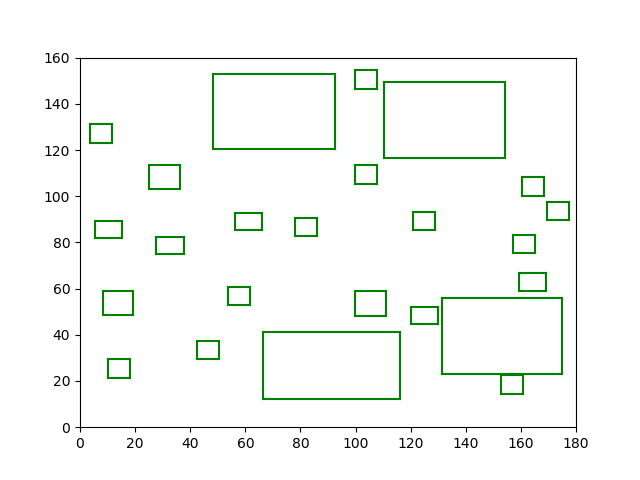
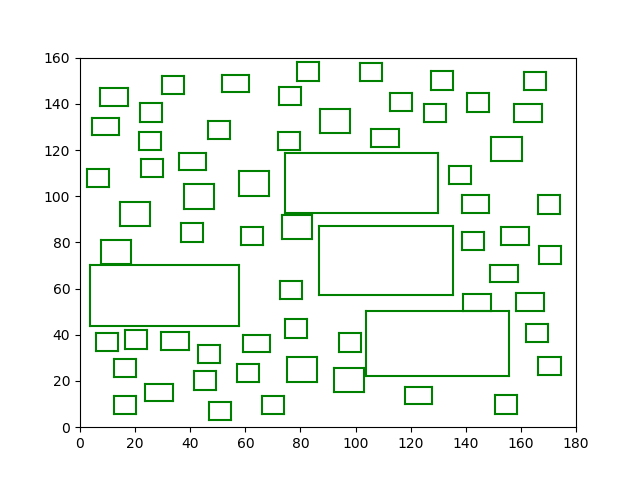
Scatterplot met kleurtjes.

diff --git a/Classes/map.py b/Classes/map.py
@@ -86,16 +86,27 @@ class Map(object):
 					return False
 
 
-		# check if house is not placed on existing home
+		# check for overlap other house
 		for house in self.houses:
 
-			# check for every corner if it's not inside a other house
+			# check for every corner if it's not in a other house
 			for c in tmp_house.corners:
 
 				if (tmp_house.corners[c]['x'] >= house.corners['lb']['x'] and
 					tmp_house.corners[c]['x'] <= house.corners['rb']['x'] and
 				    tmp_house.corners[c]['y'] <= house.corners['lb']['y'] and
 				    tmp_house.corners[c]['y'] >= house.corners['lo']['y']):
+
+					# stop function if there is overlap
+					return False
+
+			# check for every corner of other house if it's not in this house
+			for c in house.corners:
+
+				if (house.corners[c]['x'] >= tmp_house.corners['lb']['x'] and
+					house.corners[c]['x'] <= tmp_house.corners['rb']['x'] and
+				    house.corners[c]['y'] <= tmp_house.corners['lb']['y'] and
+				    house.corners[c]['y'] >= tmp_house.corners['lo']['y']):
 
 					# stop function if there is overlap
 					return False
@@ -156,30 +167,41 @@ class Map(object):
 
 		tmp_list.append(new_water)
 
-        # check if corners locations exceed the map and check if ratio is correct
-		if ((x / y) > 0.25) & ((x / y) < 4):
+        #check if ratio is correct
+		if ((x / y) < 0.25) & ((x / y) > 4):
+			return False
 
-			for water in self.water:
+		for water in self.water:
 
-				# check for every corner if it's not inside a other house
-				for c in new_water.corners:
+			# check if corner is not inside other water body
+			for c in new_water.corners:
 
-					if (new_water.corners[c]['x'] >= water.corners['lb']['x'] and
-						new_water.corners[c]['x'] <= water.corners['rb']['x'] and
-					    new_water.corners[c]['y'] <= water.corners['lb']['y'] and
-					    new_water.corners[c]['y'] >= water.corners['lo']['y']):
+				if (new_water.corners[c]['x'] >= water.corners['lb']['x'] and
+					new_water.corners[c]['x'] <= water.corners['rb']['x'] and
+				    new_water.corners[c]['y'] <= water.corners['lb']['y'] and
+				    new_water.corners[c]['y'] >= water.corners['lo']['y']):
 
-						# stop function if there is overlap
-						return False
+					# stop function if there is overlap
+					return False
 
-            # check if water is on map
-			for water in tmp_list:
-				if water.corners['lo']['x'] > 0 and water.corners['lo']['y'] > 0 \
-				and water.corners['lb']['x'] > 0 and water.corners['lb']['y'] < self.height \
-				and water.corners['ro']['x'] < self.width and water.corners['ro']['y'] > 0 \
-				and water.corners['rb']['x'] < self.width and water.corners['rb']['y'] < self.height:
-					self.water.append(water)
-					return True
+			for c in water.corners:
+
+				if (water.corners[c]['x'] >= new_water.corners['lb']['x'] and
+					water.corners[c]['x'] <= new_water.corners['rb']['x'] and
+				    water.corners[c]['y'] <= new_water.corners['lb']['y'] and
+				    water.corners[c]['y'] >= new_water.corners['lo']['y']):
+
+					# stop function if there is overlap
+					return False
+
+        # check if water is on map
+		for water in tmp_list:
+			if water.corners['lo']['x'] > 0 and water.corners['lo']['y'] > 0 \
+			and water.corners['lb']['x'] > 0 and water.corners['lb']['y'] < self.height \
+			and water.corners['ro']['x'] < self.width and water.corners['ro']['y'] > 0 \
+			and water.corners['rb']['x'] < self.width and water.corners['rb']['y'] < self.height:
+				self.water.append(water)
+				return True
 
 
 	def calc_freespace_on_map(self):
@@ -187,7 +209,7 @@ class Map(object):
 
 		# Input arguments:
 		# new_house --  house that is being moved
-		
+
 
 		# initiate possible freespace variable
 		poss_freespace = 0

diff --git a/Algorithms/particle_swarm.py b/Algorithms/particle_swarm.py
@@ -8,75 +8,38 @@ import matplotlib.patches as patches
 import sys
 
 
+
 def scatterplot(ah_map, name, directory):
 
-	data = []
+	import matplotlib.patches as patches
 
-	for i in range(len(ah_map.houses)):
+	out_plot = plot.figure()
+	ax = out_plot.add_subplot(111, aspect='equal')
 
+	p = []
 
-		x = ah_map.houses[i].location['x']
-		y = ah_map.houses[i].location['y']
+	for house in ah_map.houses:
 
-		colors = (0, 0, 0)
-		area = np.pi * 1
-
-		data.append([ah_map.houses[i].corners['lb']['x'],
-					 ah_map.houses[i].corners['lb']['y']])
-		data.append([ah_map.houses[i].corners['lo']['x'],
-					 ah_map.houses[i].corners['lo']['y']])
-		data.append([ah_map.houses[i].corners['lo']['x'],
-					 ah_map.houses[i].corners['lo']['y']])
-		data.append([ah_map.houses[i].corners['ro']['x'],
-					 ah_map.houses[i].corners['ro']['y']])
-		data.append([ah_map.houses[i].corners['ro']['x'],
-					 ah_map.houses[i].corners['ro']['y']])
-		data.append([ah_map.houses[i].corners['rb']['x'],
-					 ah_map.houses[i].corners['rb']['y']])
-		data.append([ah_map.houses[i].corners['rb']['x'],
-					 ah_map.houses[i].corners['rb']['y']])
-		data.append([ah_map.houses[i].corners['lb']['x'],
-					 ah_map.houses[i].corners['lb']['y']])
+		p.append(patches.Rectangle((house.location['x'], house.location['y']),
+									house.width, house.height,
+									facecolor=house.colour))
 
 	for water in ah_map.water:
-		print(water.width, water.height, water.self_id)
-		data.append([water.corners['lb']['x'],
-					 water.corners['lb']['y']])
-		data.append([water.corners['lo']['x'],
-					 water.corners['lo']['y']])
-		data.append([water.corners['lo']['x'],
-					 water.corners['lo']['y']])
-		data.append([water.corners['ro']['x'],
-					 water.corners['ro']['y']])
-		data.append([water.corners['ro']['x'],
-					 water.corners['ro']['y']])
-		data.append([water.corners['rb']['x'],
-					 water.corners['rb']['y']])
-		data.append([water.corners['rb']['x'],
-					 water.corners['rb']['y']])
-		data.append([water.corners['lb']['x'],
-					 water.corners['lb']['y']])
+
+		p.append(patches.Rectangle((water.location['x'], water.location['y']),
+									water.width, water.height,
+									facecolor='blue'))
+
+
+	for patch in p:
+	    ax.add_patch(patch)
 
 	axes = plot.gca()
+	ax.set_facecolor('green')
 	axes.set_xlim([0, ah_map.width])
 	axes.set_ylim([0, ah_map.height])
 
-	# for every value in data
-	for i in range(0, len(data) - 1, 2):
-		# define lists
-		plot_array_x = []
-		plot_array_y = []
-
-		# append values in pairs to lists
-		plot_array_x.append(data[i][0])
-		plot_array_x.append(data[i + 1][0])
-		plot_array_y.append(data[i][1])
-		plot_array_y.append(data[i + 1][1])
-
-		# plot each of these pairs seperately
-		plot.plot(plot_array_x, plot_array_y, 'g')
-
-	# plot.savefig(name)
+	# out_plot.savefig(name)
 
 	split = sys.path[1][2]
 	list_dir = sys.path[0].split(split)
@@ -85,11 +48,11 @@ def scatterplot(ah_map, name, directory):
 		string += list_dir[i]
 		string += split
 
-	plot.savefig(string + 'Results' + split + directory + split + name)
+	out_plot.savefig(string + 'Results' + split + directory + split + name)
 
-	plot.clf()
+	out_plot.clf()
 
-	# return plot.show()
+	# return out_plot.show()
 
 
 def particle_swarm(in_map, tries):
@@ -120,7 +83,6 @@ def particle_swarm(in_map, tries):
 				   	   'y' : house.location['y'] + a * house.direction['y']}
 
 			allowed = out_map.place_house(0, new_loc)
-			# print(allowed)
 
 			if allowed == False:
 				out_map.place_house(0, old_loc)

diff --git a/Characteristics/Amstelhaege.py b/Characteristics/Amstelhaege.py
@@ -12,11 +12,14 @@ Standard map and houses of the assignment. All measurements are in meters.
 '''Three types of homes. '''
 
 HOUSES_LIST = [ {'type' : 'one_family', 'index' : 0, 'width' : 8, 'height': 8,
-				 'start_value' : 285000, 'perc' : 0.02, 'min_free' : 2},
+				 'start_value' : 285000, 'perc' : 0.02, 'min_free' : 2,
+				 'colour' : 'yellow'},
 				{'type' : 'bungalow', 'index' : 1, 'width' : 10, 'height' : 7.5,
-			 	 'start_value' : 399000, 'perc' : 0.04, 'min_free' : 3},
+			 	 'start_value' : 399000, 'perc' : 0.04, 'min_free' : 3,
+				 'colour' : 'orange'},
 				{'type' : 'mansion', 'index' : 2, 'width' : 11, 'height' : 10.5,
-				 'start_value' : 610000, 'perc' : 0.06, 'min_free' : 6}]
+				 'start_value' : 610000, 'perc' : 0.06, 'min_free' : 6,
+				 'colour' : 'red'}]
 
 
 '''The characteristics of the map.

diff --git a/Running_Scripts/test.py b/Running_Scripts/test.py
@@ -11,9 +11,9 @@ from __import__ import *
 # for house in ah_map.houses:
 # 	print(house.freespace)
 
-for i in range(10):
-	ah_map = random_generator(MAP_20)
+# for i in range(10):
+ah_map = random_generator(MAP_60)
 #
 # fireworks(MAP_20)
 
-	scatterplot(ah_map, 'test')
+scatterplot(ah_map, 'test')

diff --git a/Classes/house.py b/Classes/house.py
@@ -25,6 +25,7 @@ class House(object):
 		self.min_free = house_charac['min_free']
 		self.type = house_charac['type']
 		self.index_nr = house_charac['index']
+		self.colour = house_charac['colour']
 
 		self.self_id = self_id
 		self.location = loc # loc is a dict {'x' : ..., 'y' : ...}

diff --git a/Running_Scripts/particle_swarm_test.py b/Running_Scripts/particle_swarm_test.py
@@ -1,7 +1,7 @@
 
 from __import__ import *
 
-random_map = best_of_random(MAP_40, 1)
+random_map = best_of_random(MAP_20, 1)
 particle_map = particle_swarm(random_map, 10)
 print('particle:', particle_map['map'].score)
 
